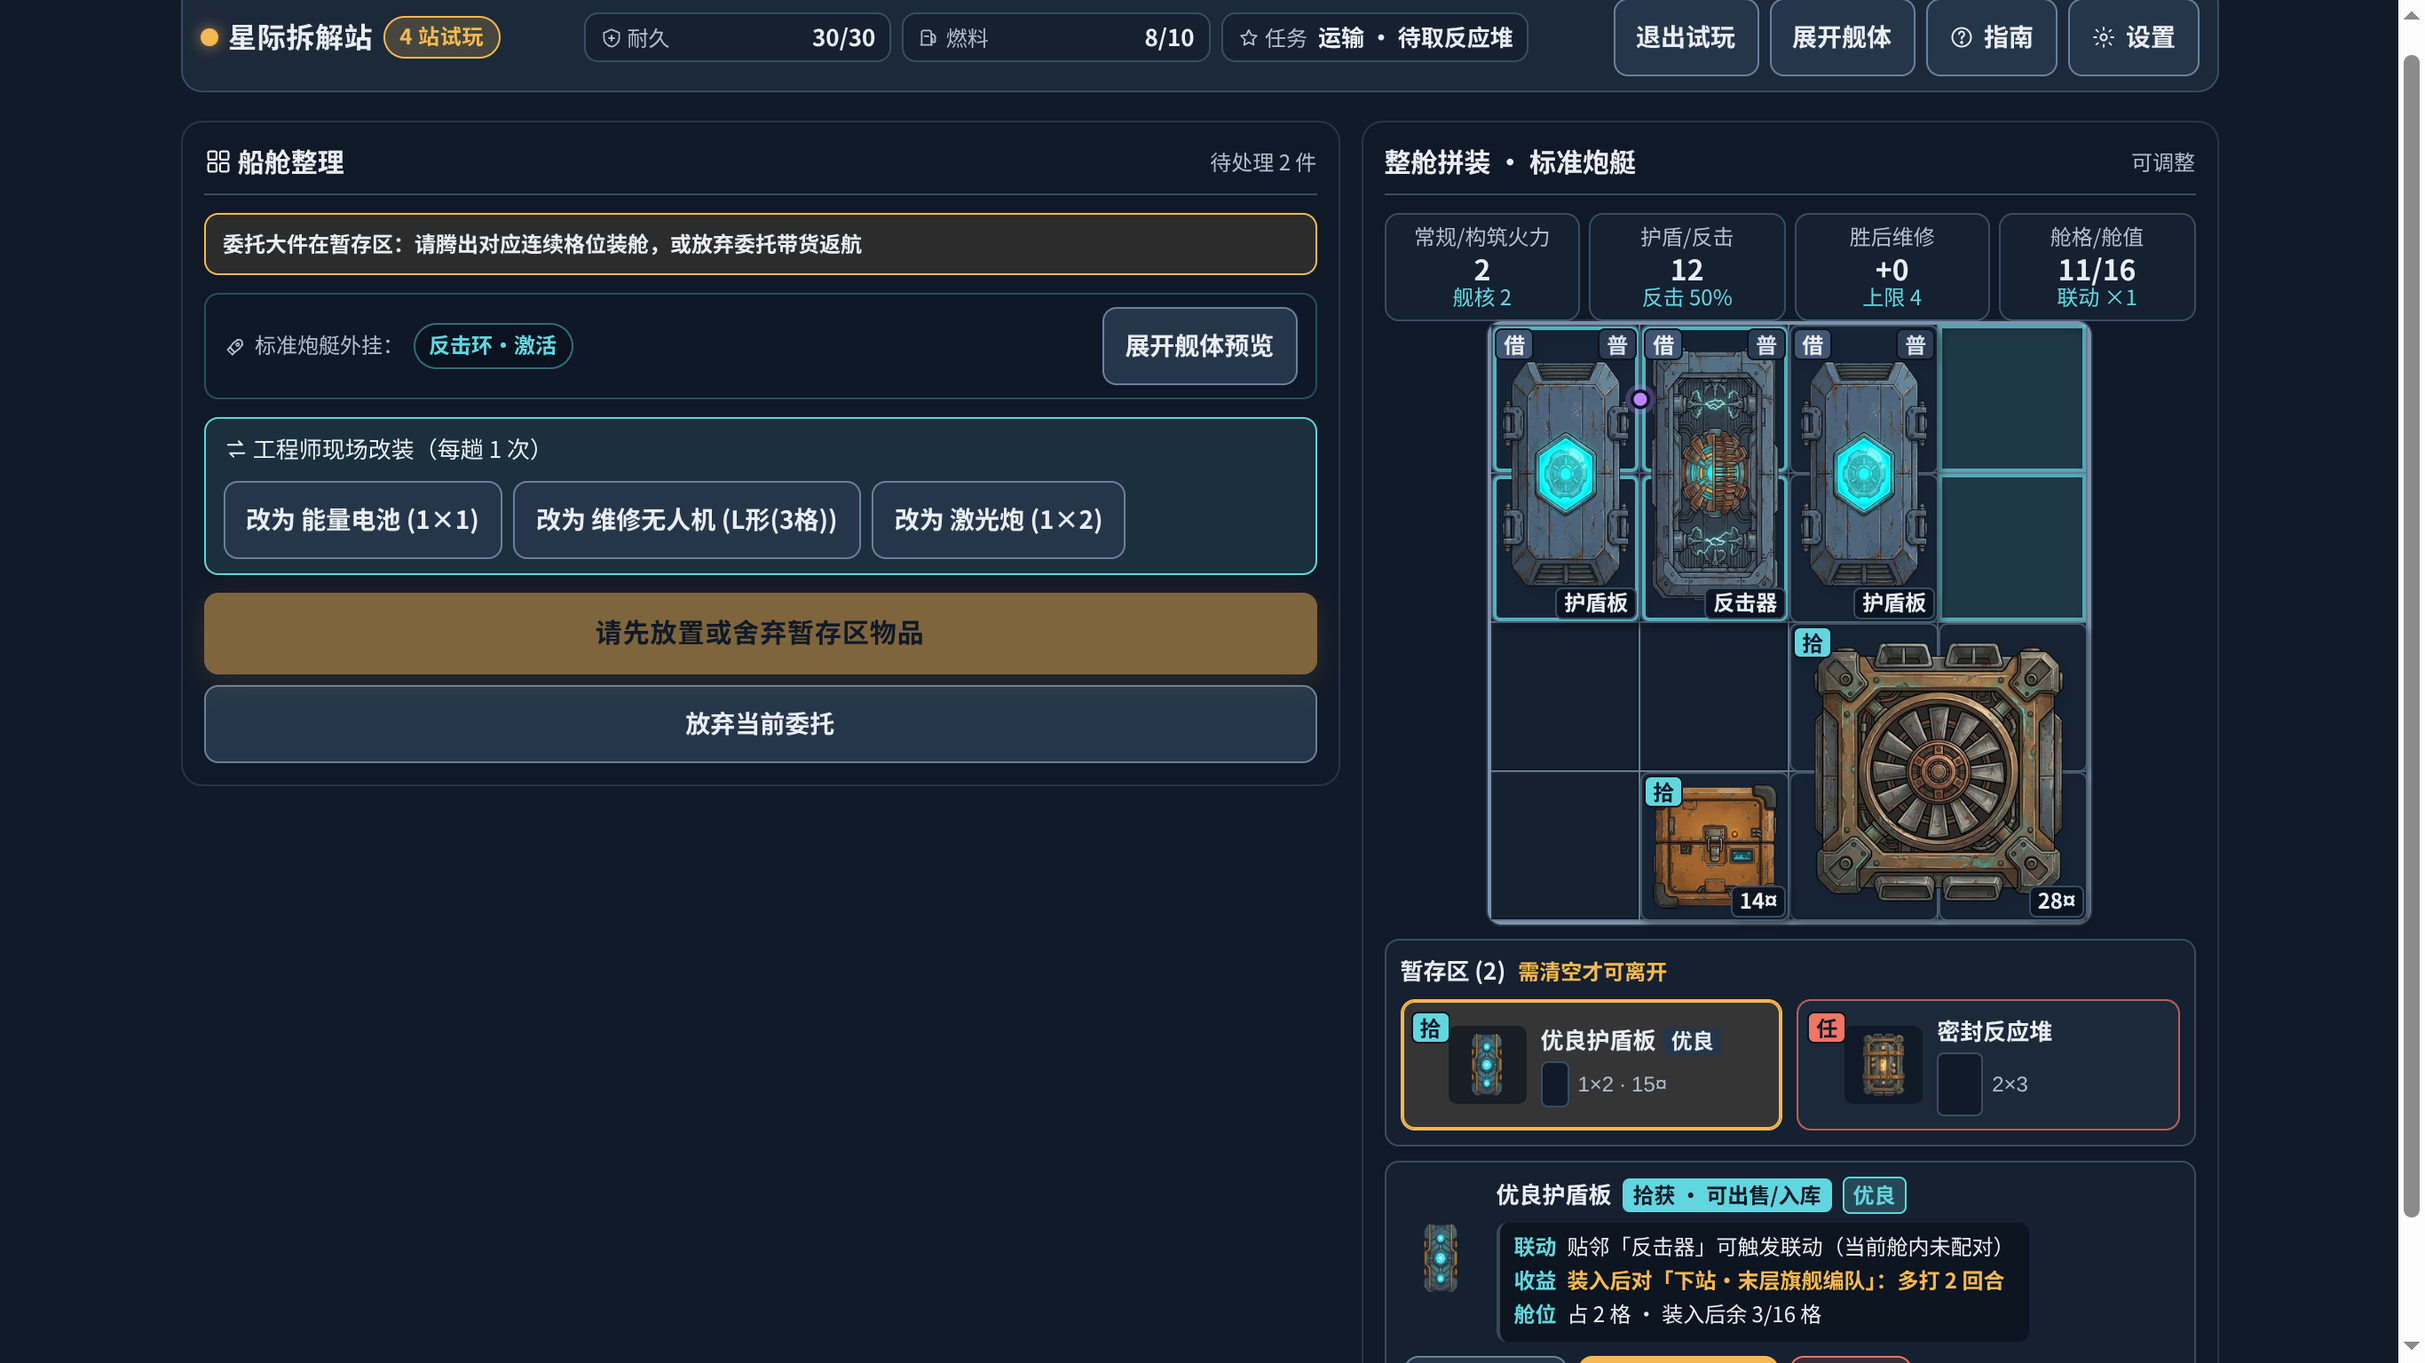
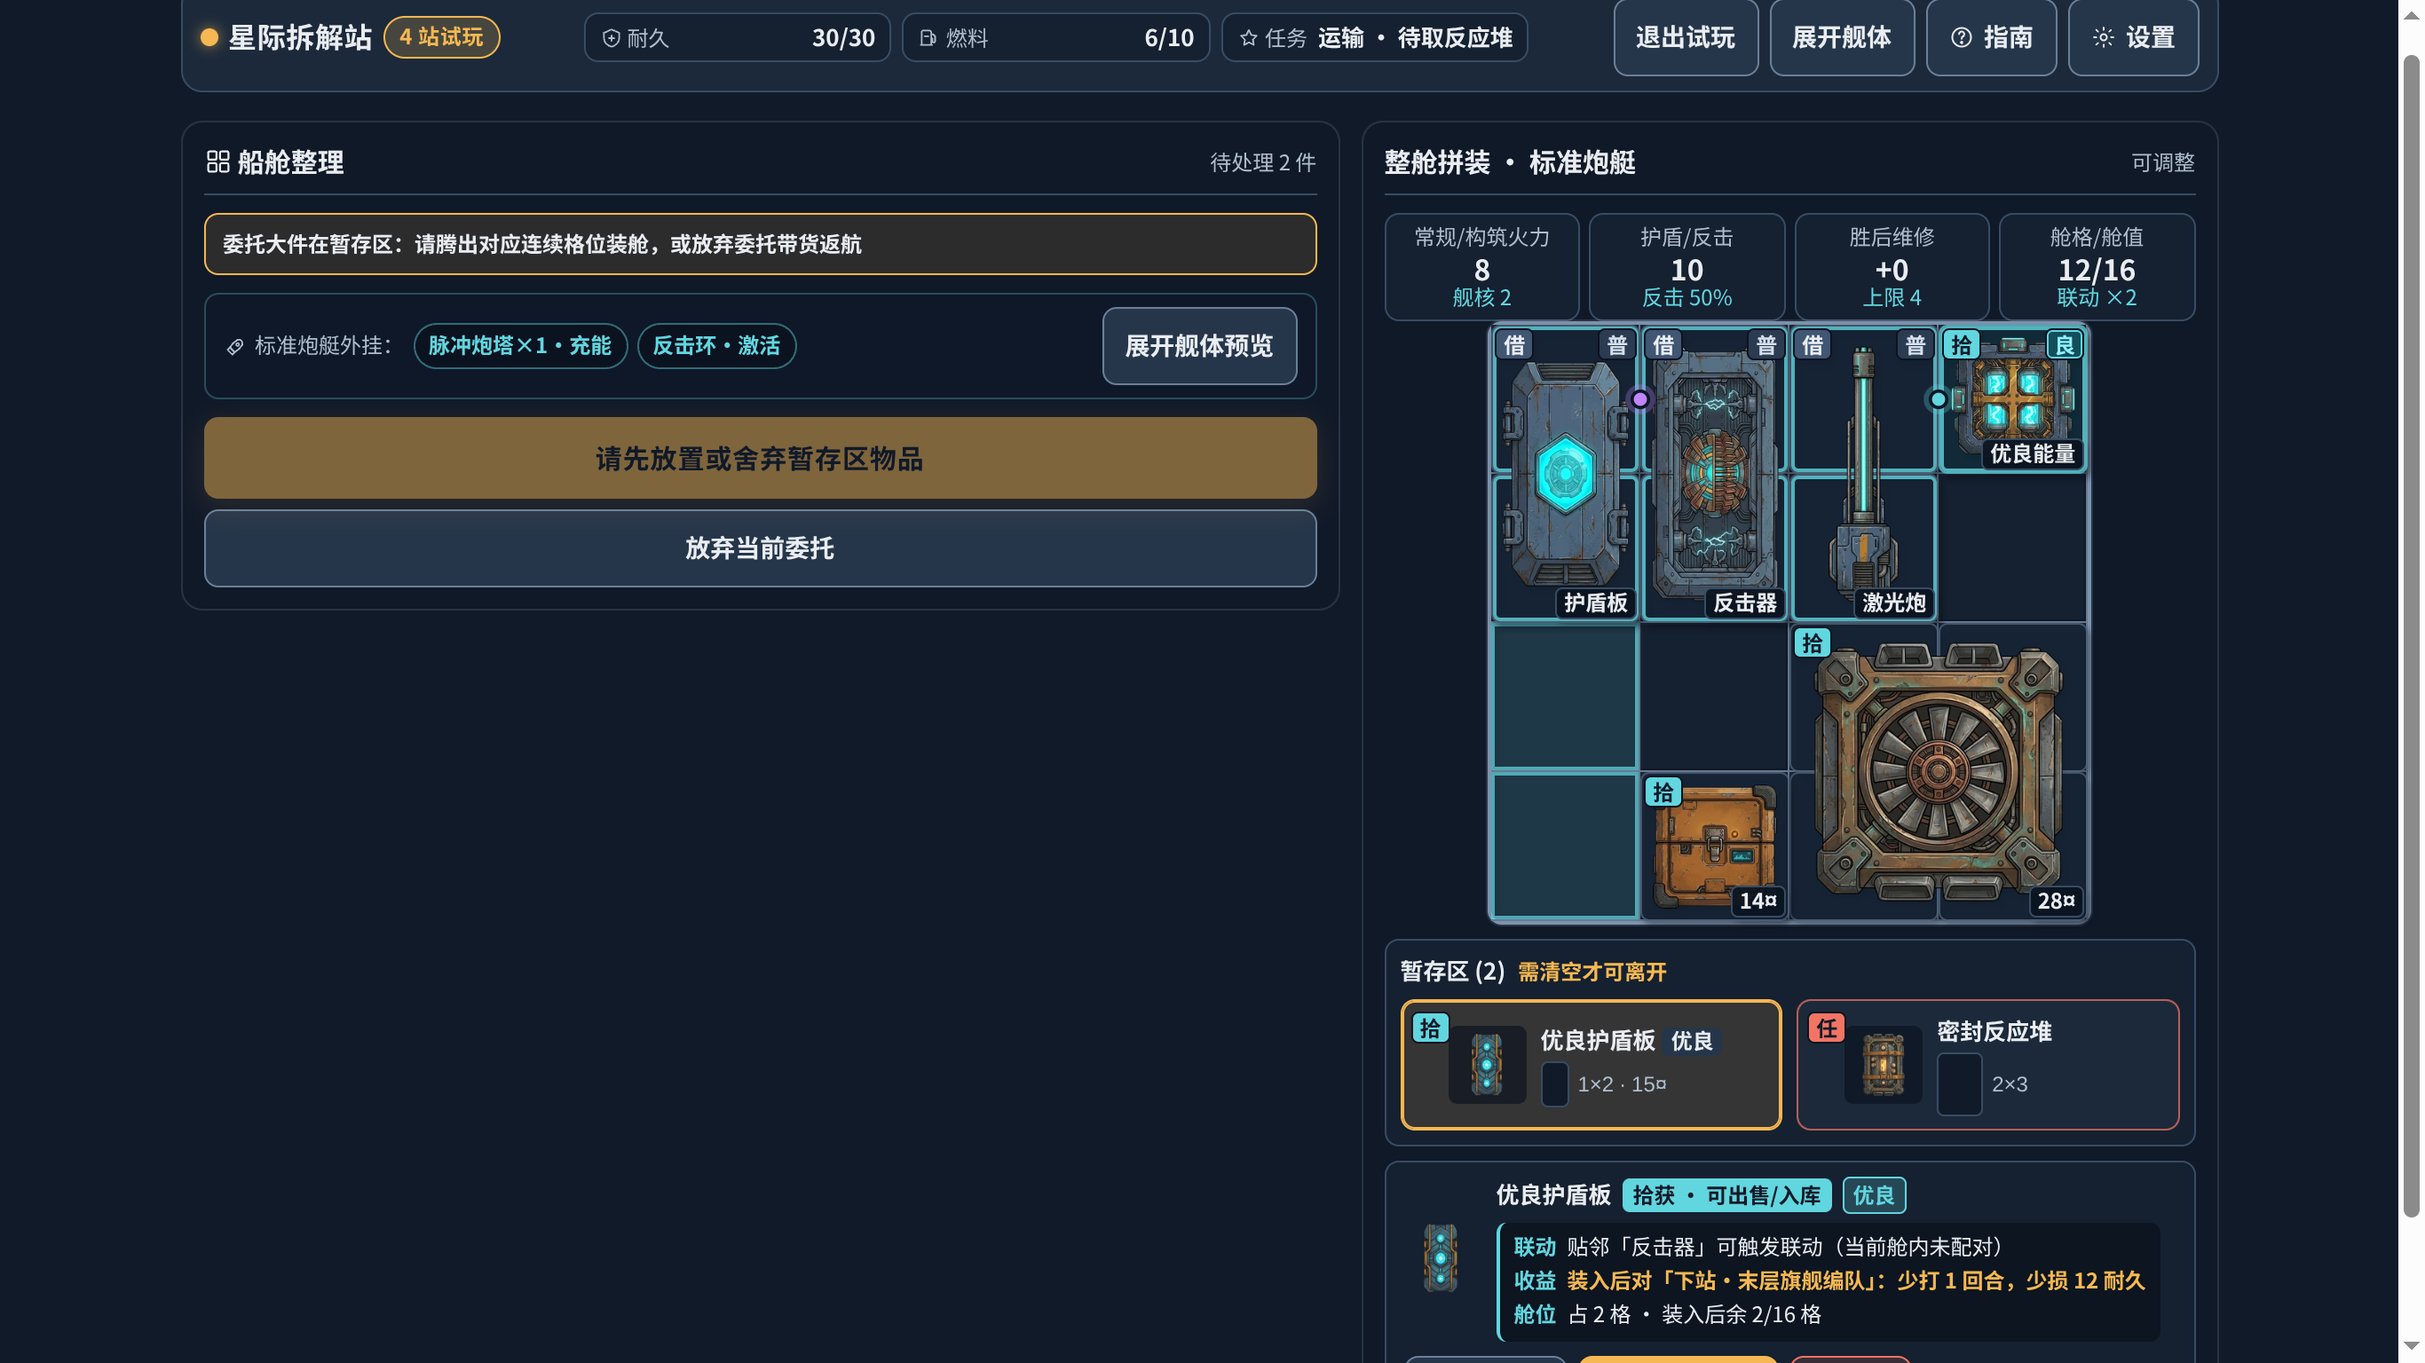
docs(v2-polish): record 5-fix balance regression, 26/26 2x DPR E2E checks, and refreshed screenshots

diff --git a/docs/reviews/2026-11-21-v2-polish/V2体验深化与精修验收报告.md b/docs/reviews/2026-11-21-v2-polish/V2体验深化与精修验收报告.md
@@ -2,7 +2,7 @@
 
 - **验收日期**：2026-11-21（UTC+8 / 2026-11-22 UTC）
 - **依据方案**：[V2 体验深化与美术精修优化方案](../../星际拆解站-V2体验深化与美术精修优化方案.md)
-- **实施分支**：`feat/v2-polish-experience` & `polish/v2-deep-completion`（验收后全部 cleanly 合并回 `main`）
+- **实施分支**：`feat/v2-polish-experience`、`polish/v2-deep-completion` 与 `fix/v2-balance-and-flow-polish`（验收后全部 cleanly 合并回 `main`）
 - **历史报告保护**：完整保留 [2026-11-21](../2026-11-21/)、[2026-11-21-fix](../2026-11-21-fix/) 与 [2026-11-21-v2](../2026-11-21-v2/) 全部历史文件与检查数据，未做任何改写。
 
 ---
@@ -21,15 +21,15 @@
 | **拼装缺少即时战果反馈** | 仅显示抽象属性，难以判断“换位/贴邻/拆装”是否值得 | 选中设备或奖励候选时即时运行同源战斗模拟，展示不超过 3 行的 **战术差值对比条**（联动 / 收益 / 舱位） | `E06_TacticalDeltaComparator`；截图 `09_arrange_staging_bounds_1366x768.png` |
 | **废船打捞偏文本按钮** | 废船节点为纵向选项列表 | 升级为 **全幅残骸剖面三热点探索**（左 `军械舱` / 中 `反应舱` +2 燃料或 +8 耐久 / 右 `货舱`），热点直接落于对应舱室并带底部决策栏 | `E09_WreckThreeHotspots`；截图 `08_wreck_3hotspot_1366x768.png` |
 | **战斗画面占比与可读性** | 战斗画布被双栏面板挤占 | 战斗进入 **88% 视口宽银幕主舞台**，顶部浮动 HUD（含「查看船舱」弹层、倍速、跳过）+ 居中 1 行实时回合事件条 | `E08_CombatHeroViewport`；截图 `07_combat_live_1366x768.png` |
-| **精英战实验开关（Phase D）** | 全自动交火在精英 BOSS 战缺少临场呼吸感 | 设置面板可开关 **精英战第 2 回合战术抉择**（`正常执行` / `火力过载` / `紧急防御`），战前显式标注 **「按正常执行推演」**，停顿期间禁用跳过按钮，且暂停前后完整支持存档刷新幂等恢复 | `E11_EliteRound2TacticPauseAndSkipGuard`、`E18_EliteNormalForecastLabel`；`tests/v2-polish.test.ts` 8/8 通过；截图 `10` |
+| **精英战实验开关（Phase D）** | 全自动交火在精英 BOSS 战缺少临场呼吸感 | 设置面板可开关 **精英战第 2 回合战术抉择**（`正常执行` / `火力过载` / `紧急防御`），战前显式标注 **「按正常执行推演」**，停顿期间禁用跳过按钮，且暂停前后完整支持存档刷新幂等恢复 | `E11_EliteRound2TacticPauseAndSkipGuard`、`E18_EliteNormalForecastLabel`、`E21_ShowcaseEliteWinningTactic`；`tests/v2-polish.test.ts` 9/9 通过；截图 `10` |
 | **单标签页刷新误判只读** | 同一浏览器标签页 F5 刷新在锁窗口内偶发误入只读模式 | `tabLock.ts` 通过 `sessionStorage` 持久化单标签页身份并在 `pagehide` 主动释放锁，真正多开标签页仍严格触发只读保护与接管按钮 | 浏览器 E2E 含刷新校验与 `tests/rules.test.ts` 通过 |
 
 ---
 
 ## 二、设计决策记录（试航方案与既有蓝图权益 §5.1 / §14 #3）
 
-- **设计变更**：完成首航后，整备页直接提供 3 套普通品质整套借用试航方案（`重炮破甲` / `无人机编队` / `护盾反击`），严格遵守船体装配预算、返航自动归还、不可售不可研究，且不引入额外「试用券」计数资源。
-- **永久蓝图长期价值与既有玩家权益保护**：已研究永久蓝图仍独占三项核心权限——**单件自由混搭借用**（可跨流派组合，试航方案不可混搭）、**研究台制造优良品质设备**（试航方案锁定普通品质）以及**保存/一键载入自定义配装预设**；整备页已明确提示该差异，既有存档中已解锁蓝图与研究投入 100% 有效不失效。
+- **设计变更**：完成首航后，整备页直接提供 3 套普通品质整套借用试航方案（`重炮破甲` / `无人机编队` / `护盾反击`），严格遵守船体装配预算、返航自动归还、不可售不可研究，且不引入额外「试用券」计数资源；试航模式下锁定外部增删与预设保存（允许在船舱内自由拖动/旋转体验联动），点击「切回自由配装」即可解锁自由混搭。
+- **永久蓝图与自有设备长期价值**：已研究永久蓝图独占三项核心权限——**单件自由混搭借用**（可跨流派自由组合）、**研究台制造自有普通设备（出航预算 -1、最低 1，以承担战败实损换取更高配装上限）**以及**保存/一键载入自定义配装预设**；优良品质设备仍仅限远航打捞或流动商人获取，既有存档中的蓝图与研究投入 100% 有效。
 
 ---
 
@@ -55,16 +55,16 @@
 
 ### 1. 类型检查、单元测试与生产构建
 - `npx tsc --noEmit`：**0 错误**
-- `npm test`（Vitest）：**5 个测试套件、41/41 用例全部通过**
+- `npm test`（Vitest）：**5 个测试套件、42/42 用例全部通过**
   - `tests/rules.test.ts`（19 项，V1 兼容与底层不变量）
   - `tests/simulation.test.ts`（1 项，V1 六策略平衡回归）
   - `tests/v2-rules.test.ts`（12 项，V2 委托/航路/事件/战斗/经济/迁移）
-  - `tests/v2-simulation.test.ts`（1 项，V2 平衡模拟）
-  - `tests/v2-polish.test.ts`（8 项，三试航模板、视觉外挂派生、战术差值、三舱室废船、4 站隔离试玩、精英第 2 回合分支与同源性、**暂停前后存档刷新幂等往返校验**）
+  - `tests/v2-simulation.test.ts`（1 项，V2 三船×三构筑×三委托 40 种子全矩阵模拟）
+  - `tests/v2-polish.test.ts`（9 项，三试航模板、视觉外挂派生、战术差值、三舱室废船、4 站隔离试玩、精英第 2 回合分支与存档刷新幂等往返、以及 **5 项玩法与平衡专项回归测试**）
 - `npm run build`：Vite 生产构建成功（`dist/` 产物无报错）
 
-### 2. 无头 Chromium（2× DPR）端到端验收（24/24 通过）
-完整结构化检查数据见 [e2e_checks.json](./e2e_checks.json)，全部 24 项检查通过，`pageErrors = 0`、`consoleErrors = 0`：
+### 2. 无头 Chromium（2× DPR）端到端验收（26/26 通过）
+完整结构化检查数据见 [e2e_checks.json](./e2e_checks.json)，全部 26 项检查通过，`pageErrors = 0`、`consoleErrors = 0`：
 
 | 检查项 | 状态 | 实测结果摘要 |
 | --- | --- | --- |
@@ -78,8 +78,8 @@
 | `E08_CombatHeroViewport` | ✅ 通过 | 实战舞台占视口高度 88%，顶部 HUD 与实时事件条零遮挡 |
 | `E09_WreckThreeHotspots` | ✅ 通过 | 废船残骸三热点 (`armory 91×52`, `reactor 91×52`, `cargo 78×52`) 正确落位并可交互 |
 | `E10_StagingCardBounds_2x3Reactor` | ✅ 通过 | `2×3` 反应堆等暂存卡片尺寸 `215×74`、缩略图 `44×44`，无溢出 |
-| `E11_EliteRound2TacticPauseAndSkipGuard` | ✅ 通过 | 精英战第 2 回合自动停顿、跳过按钮禁用、三选项均可点且带实测预估 |
-| `E12_ShowcaseIsolation` | ✅ 通过 | 退出 4 站试玩后正式档 `credits=18, runs=3` 毫发无损 |
+| `E11_EliteRound2TacticPauseAndSkipGuard` | ✅ 通过 | 精英战第 2 回合自动停顿、跳过按钮禁用、三选项均带实测预估 |
+| `E12_ShowcaseIsolation` | ✅ 通过 | 退出 4 站试玩后正式档 `credits`/`runs` 毫发无损 |
 | `E13_Responsive_360x640 / 390x844 / 430x932 / 844x390` | ✅ 通过 | 全部 4 组移动竖屏/横屏尺寸零水平溢出 |
 | `E14_ZeroRuntimeErrors` | ✅ 通过 | 全流程 `0` 页面异常、`0` 控制台报错 |
 | `E15_MapSideBySideCompareCards` | ✅ 通过 | 航图直接呈现 2 张双线并排对比卡，消除重复 A/B 切换栏 |
@@ -87,6 +87,8 @@
 | `E17_ArrangeCargoHeroAboveFold` | ✅ 通过 | 整理阶段默认收起大图+外挂条，棋盘(`521/768`)与暂存区(`637/768`) 100% 首屏完整可见 |
 | `E18_EliteNormalForecastLabel` | ✅ 通过 | 精英战战前预测显式标注「按正常执行推演」 |
 | `E19_AssetClarityDiagnostics` | ✅ 通过 | 9 项关键资产全部加载且自然宽比 ≥ 1.12× CSS 目标尺寸 |
+| `E20_TrialWholeKitLockAndCopy` | ✅ 通过 | 试航模式严格锁定外部借用/预设按钮且无「制造优良件」误导文案 |
+| `E21_ShowcaseEliteWinningTactic` | ✅ 通过 | 精华试玩 `trial_counter` 装配 L2 电池后在 L4A 精英战第 2 回合呈现真实胜负与血线分化并取胜 |
 
 ### 3. 截图证据索引（[screenshots/](./screenshots/)）
 - 桌面 1366×768（2× DPR）：
@@ -95,13 +97,13 @@
   - [03_prepare_trial_heavy_demo.png](./screenshots/03_prepare_trial_heavy_demo.png) — 整备页 5 秒实时流派微演示
   - [03b_prepare_trial_heavy_mounts.png](./screenshots/03b_prepare_trial_heavy_mounts.png) — 重炮破甲外挂硬点 + 3 行战术差值
   - [04_prepare_trial_hangar_mounts.png](./screenshots/04_prepare_trial_hangar_mounts.png) — 无人机编队腹挂机库荚舱
-  - [05_prepare_trial_counter_mounts.png](./screenshots/05_prepare_trial_counter_mounts.png) — 护盾反击背挂反击弧环 + 细缝联动节点
+  - [05_prepare_trial_counter_mounts.png](./screenshots/05_prepare_trial_counter_mounts.png) — 护盾反击（护盾板 + 反击器 + 激光炮）外挂硬点与整套锁定说明
   - [06_map_hero_1366x768.png](./screenshots/06_map_hero_1366x768.png) — 航路图精简巡航顶栏 + 双线并排对比卡
   - [07_combat_live_1366x768.png](./screenshots/07_combat_live_1366x768.png) — 全幅太空交火 + 顶部实时事件条 + 反击回流电弧实拍
   - [08_wreck_3hotspot_1366x768.png](./screenshots/08_wreck_3hotspot_1366x768.png) — 漂流残骸三舱室热点直选
   - [09_arrange_staging_bounds_1366x768.png](./screenshots/09_arrange_staging_bounds_1366x768.png) — 战后整理全首屏棋盘主角 + 外挂状态条 + 暂存区 + 3 行战术差值
-  - [10_elite_r2_tactic_1366x768.png](./screenshots/10_elite_r2_tactic_1366x768.png) — 精英旗舰第 2 回合战术抉择（无遮挡）
-  - [11_showcase_settlement_1366x768.png](./screenshots/11_showcase_settlement_1366x768.png) — 4 站试玩独立结算与下趟对比
+  - [10_elite_r2_tactic_1366x768.png](./screenshots/10_elite_r2_tactic_1366x768.png) — 精英旗舰第 2 回合战术抉择（三项真实血线分化，反击协同 +7 盾/+2 伤）
+  - [11_showcase_settlement_1366x768.png](./screenshots/11_showcase_settlement_1366x768.png) — 4 站试玩胜利独立结算与下趟对比
 - 移动端响应式（2× DPR）：
   - [12_mobile_360x640_base.png](./screenshots/12_mobile_360x640_base.png)
   - [13_mobile_390x844_base.png](./screenshots/13_mobile_390x844_base.png)
@@ -111,7 +113,21 @@
 
 ---
 
-## 五、已实现但待验证事项（明确标注，不伪称已测）
+## 五、主流程与全矩阵平衡专项修复复验（5 项闭环实测）
+
+完整实测脚本输出留档见 [balance_audit_after.txt](./balance_audit_after.txt)。
+
+| 修复项 | 修复前实测问题 | 修复后实测结果 |
+| --- | --- | --- |
+| **1. 文案与流程指引纠偏** | 整备页误写「制造优良件」；教学提示仍写「废船二选一」；未建研究台时结算页无入库提示；深入勘测未提示 9 油紧边界 | 全部文案与实装规则 100% 对齐；结算页未建研究台时展示禁用提示 `建成研究台(100¤)可入库`；`survey_deep` 显式标注「全程需 9 油，建议携领航员或途中补油」 |
+| **2. 自有普通件价值倒挂 & 试航混搭漏洞** | 制造普通自有件与免费借用同预算同属性却战败全损；试航模式可拆件混搭或存预设 | 普通自有设备享 **出航预算 -1（最低 1）**（例：自有重炮 2 + 借蓄能 1 + 自有盾 1 + 借激光 2 = 6/6，货船亦可装全套）；试航模式领域层与 UI 层双重锁死整套配置，禁止外部混搭与存预设 |
+| **3. 三流派试航与交火克制重构** | `trial_counter` 双盾无炮导致打 L1 装甲 15 轮、L3 装甲与 L4A 精英必败；无人机集火死目标浪费过量伤害；L5–6 蜂群伤害不成长 | 反击器自带 `+4/+5` 护盾，`trial_counter` 改为「护盾 + 反击器 + 激光」(`10–14` 盾 + 5 直伤 + 反击)，L3 蜂群仅 `-1hp/5R`、L3 装甲胜、L4A 精英胜；无人机每架击毁自动转火，L3/L5 蜂群轮数显著优于重炮与基础激光；L5–6 蜂群头机增伤至 2 点 |
+| **4. 精英战第 2 回合战术平衡** | 12 套构筑中 `emergency_defense` 独占 `9/12` 最优，`normal=0`、`overload=0` 且 `4/12` 被锁死 | 12 套后期构筑实测最优分布 **`normal 3 / overload 5 / emergency_defense 4 / tie 0`**，过载禁用 `0/12`（仅剩 `血+盾 ≤ 3` 保护）；重炮利好「火力过载(耗 3 盾/血打 9 穿甲)」，高频激光利好「正常执行」，反击/机库利好「紧急防御(+5 盾 / 反击协同 +7 盾 & +2 伤，重炮蓄能延后 1 轮)」 |
+| **5. 货物单位格价值密度倒挂** | `1×1` 数据盒 `10¤/格` 反超 `1×2` 合金条 (`8¤/格`)、`2×2` 旧引擎 (`8¤/格`)、`1×3` 冷却罐 (`8.7¤/格`) | 调整为严格递增阶梯：`data_box(7.0)` < `alloy_bar(7.5)` < `old_engine(8.0，保 AC13=32¤)` < `coolant_tank(9.0)` < `folding_antenna(10.7)` < `藏品(12.0–17.3¤/格)` |
+
+---
+
+## 六、已实现但待验证事项（明确标注，不伪称已测）
 
 当前云端无头环境无法替代真机硬件与真人主观体验，以下 4 项标记为 **已实现但待验证**：
 
